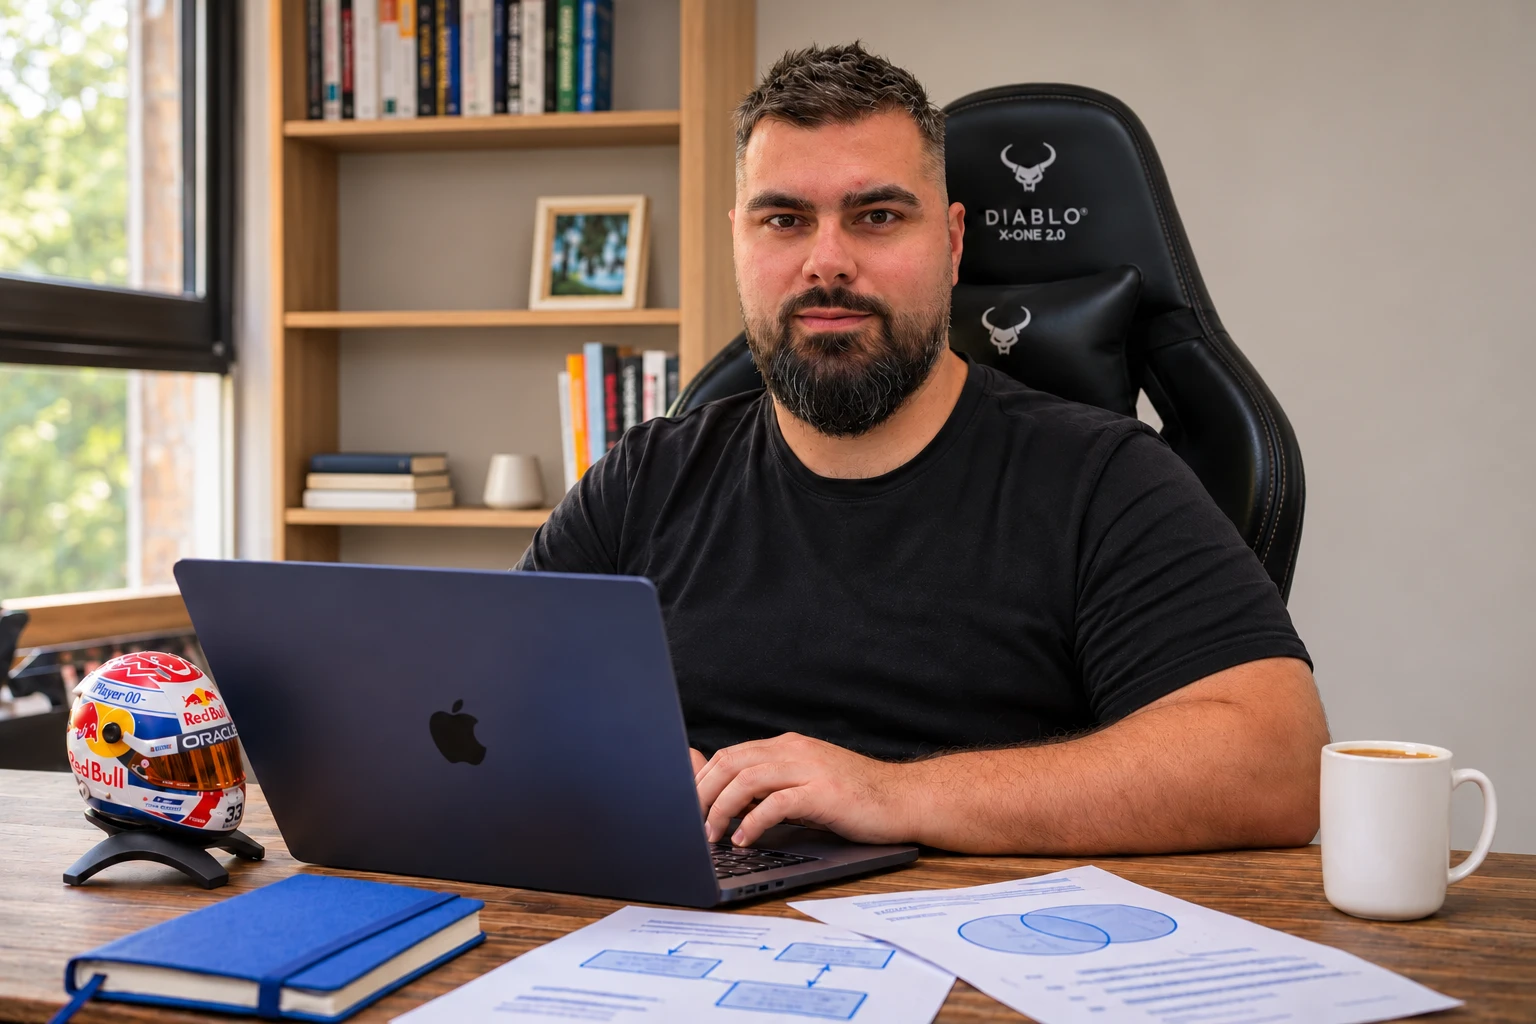
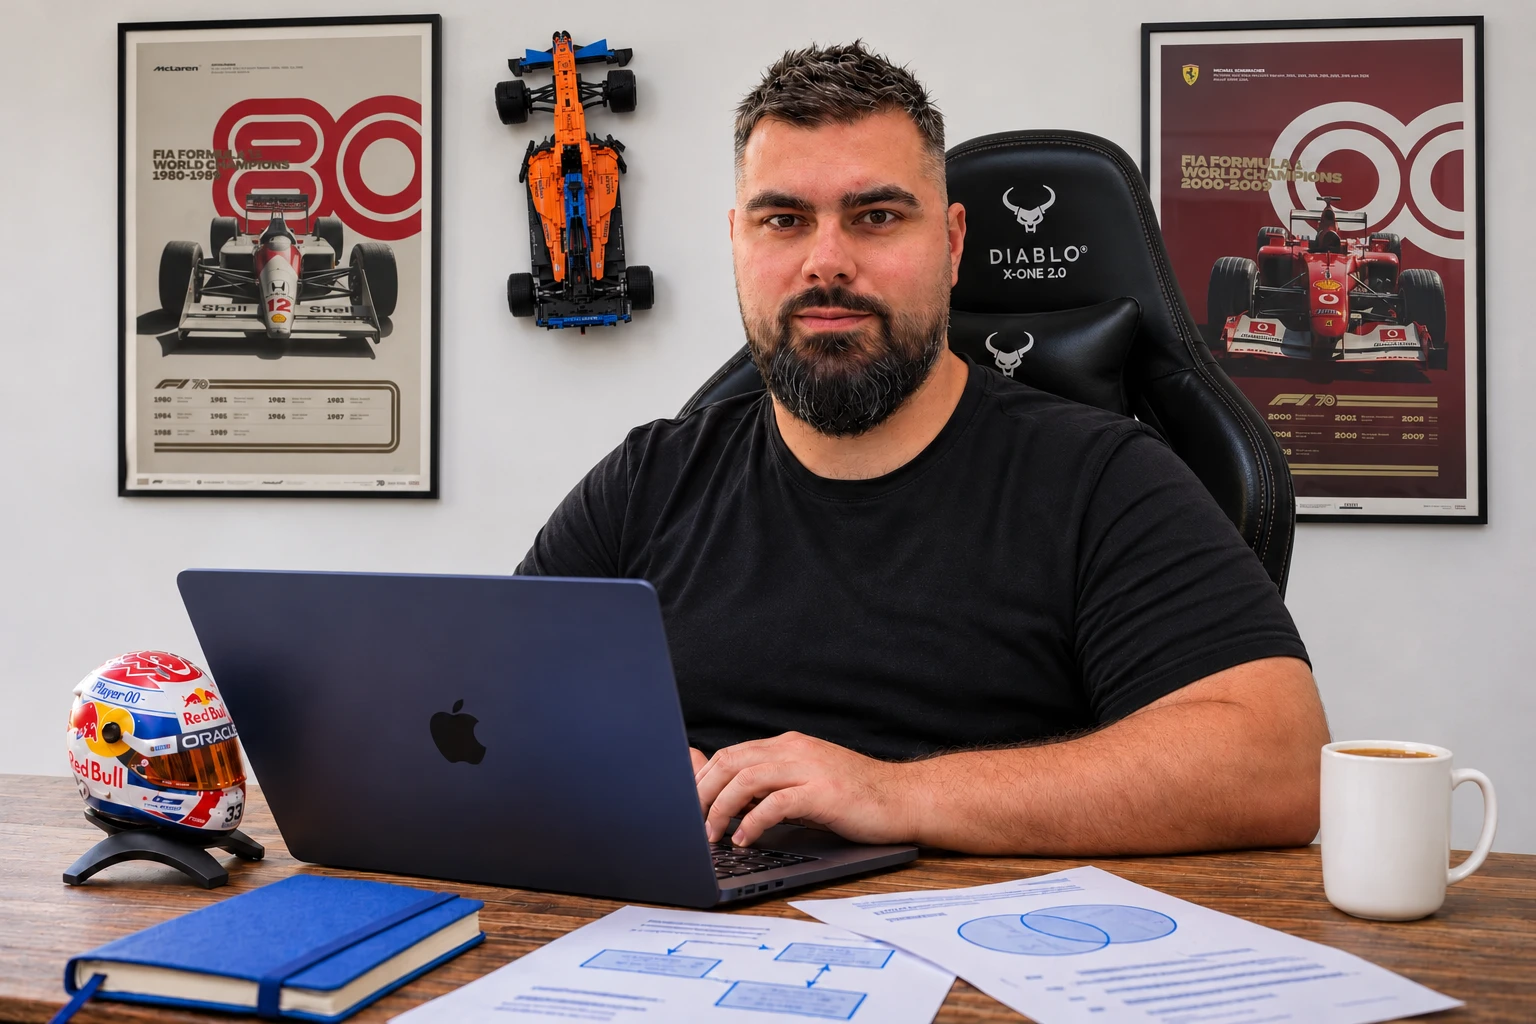
Replace portrait background with white wall and supplied F1 decorations

diff --git a/personal/index.html b/personal/index.html
@@ -13,7 +13,7 @@
 </head>
 <body>
 <main aria-label="Lukáš Javůrek">
-<div class="portrait-frame"><img class="illustration" src="/personal/hero.webp?v=4536fdc92b40" alt="Lukáš Javůrek přirozeně sedí za inkoustově modrým MacBookem a dívá se do objektivu. Na stole je model helmy Maxe Verstappena a hrnek kávy." width="1536" height="1024" fetchpriority="high"></div>
+<div class="portrait-frame"><img class="illustration" src="/personal/hero.webp?v=45406bf5c3a6" alt="Lukáš Javůrek přirozeně sedí za inkoustově modrým MacBookem a dívá se do objektivu. Na stole je model helmy Maxe Verstappena a hrnek kávy, za ním bílá stěna s plakáty F1." width="1536" height="1024" fetchpriority="high"></div>
 <h1 class="wordmark" aria-label="Lukáš Javůrek"><span class="wordmark-first">Lukáš</span><span class="wordmark-last">Javůrek<span class="wordmark-dot" aria-hidden="true">.</span><svg class="wordmark-stroke" viewBox="0 0 180 12" aria-hidden="true"><path d="M3 8C44 2 105 2 177 5"/></svg></span></h1>
 <a class="school-link" href="/kapli/">Rozcestník pro učitele ZŠ Kaplického</a>
 </main>
